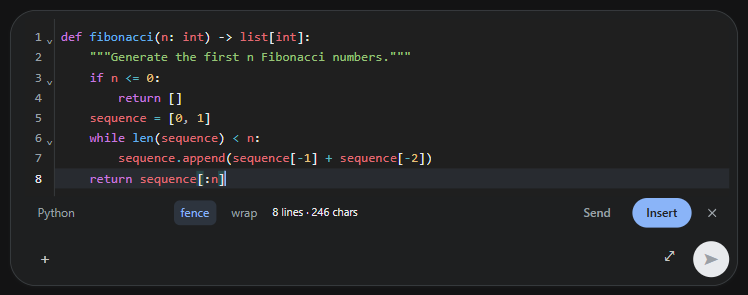
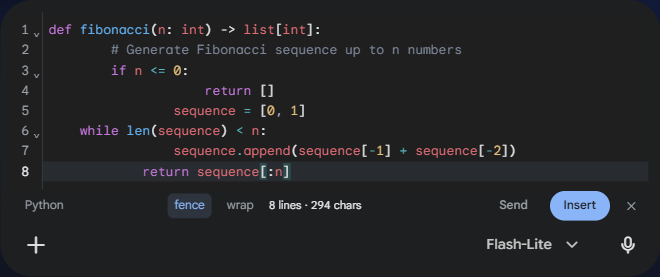
docs: align README with repo name, reorder installation after overview, and update with real Gemini dark mode screenshots

diff --git a/README.md b/README.md
@@ -1,13 +1,13 @@
-# Gemini Code Input
+# Code Input in AI Web Apps
 
 <p align="center">
-  <img src="release/gemini-code-input-1.0.0-store-icon-300.png" width="96" height="96" alt="Gemini Code Input logo" />
+  <img src="release/gemini-code-input-1.0.0-store-icon-300.png" width="96" height="96" alt="Code Input in AI Web Apps logo" />
 </p>
 
 <p align="center">
-  A Manifest V3 browser extension that docks a <strong>real code editor</strong> into Gemini's web prompt box.
+  A Manifest V3 browser extension that docks a <strong>real code editor</strong> directly into web prompt boxes.
   <br />
-  Syntax highlighting, proper language-aware indentation, line numbers, bracket matching, comment toggling, and smart fenced blocks.
+  Syntax highlighting, language-aware indentation, line numbers, bracket matching, comment toggling, and smart fenced blocks.
 </p>
 
 <p align="center">
@@ -18,64 +18,20 @@
   <img src="https://img.shields.io/badge/browsers-Chrome%20%7C%20Edge%20%7C%20Firefox%20%7C%20Brave%20%7C%20Arc-orange.svg" alt="Browser Support" />
 </p>
 
+> [!NOTE]
+> Currently supports **Google Gemini** ([gemini.google.com](https://gemini.google.com)). Support for additional AI web apps (ChatGPT, Claude, Copilot, DeepSeek, etc.) is in active development and coming soon!
+
 ---
 
 ## Overview
 
-Writing code in a standard prompt textarea often strips indentation, mashes bracket pairs, and lacks readability. **Gemini Code Input** embeds CodeMirror 6 directly into [gemini.google.com](https://gemini.google.com)'s prompt card. 
+Writing code in a standard prompt textarea often strips indentation, mashes bracket pairs, and lacks readability. **Code Input in AI Web Apps** embeds CodeMirror 6 directly into the prompt box.
 
-The editor docks cleanly inside Gemini's input grid, styled natively with Google Sans and Google Sans Mono to blend seamlessly into Gemini's light and dark themes.
-
-<p align="center">
-  <img src="docs/images/gemini-code-editor-docked.png" alt="Gemini Code Input Docked Editor in Dark Mode" width="800" />
-</p>
+The editor docks cleanly inside the input container, styled natively with Google Sans and Google Sans Mono to blend seamlessly into Gemini's dark theme.
 
 <p align="center">
-  <img src="docs/images/gemini-code-editor-light.png" alt="Gemini Code Input Docked Editor in Light Mode" width="800" />
+  <img src="docs/images/gemini-code-editor-docked.png" alt="Code Input Docked Editor on Google Gemini (Dark Mode)" width="800" />
 </p>
-
----
-
-## Key Features
-
-- **Docked In-Flow Experience**: Sits directly within Gemini's rounded input container. The code comes first and controls sit in a clean strip below, preserving Gemini's top-right expand/collapse button.
-- **Native Gemini Typography**: UI elements use **Google Sans** and code uses **Google Sans Mono** / Roboto Mono, perfectly matching Gemini's interface.
-- **Language-Aware Editing**: 21 supported languages with dedicated indentation units (4 spaces for Python/Java, 2 for JS/TS/HTML, real tabs for Go via `gofmt` standard).
-- **Automatic Language Detection**: Pasting code into an empty editor automatically detects the syntax and switches the language mode.
-- **Markdown Fenced Blocks**: Automatically formats submitted code with ` ```language ` block wrappers.
-- **Duplicate Insertion Guard**: Prevents accidental re-insertion if the code is already sitting in the prompt box.
-- **Ultra-Lean Footprint**: Loads on-demand. The initial content script is ~36 KiB; CodeMirror core and individual language packages load only when the editor opens.
-- **100% Client-Side & Private**: Zero external network requests, zero telemetry, no third-party tracking. All operations happen inside the browser.
-
----
-
-## Screenshots
-
-### 1. Dedicated Floating Launcher Chip
-A clean `<>` chip sits unobtrusively above the prompt box, following Gemini's dynamic layouts.
-
-<p align="center">
-  <img src="docs/images/gemini-launcher-chip.png" alt="Launcher Chip positioned above prompt box" width="760" />
-</p>
-
-### 2. Extension Options & Control Popup
-Customize default language, fence wrappers, line wrapping, launcher button position, and editor scroll height.
-
-<p align="center">
-  <img src="docs/images/extension-popup.png" alt="Extension Settings Menu Popup" width="360" />
-</p>
-
----
-
-## Browser Compatibility
-
-| Browser | Supported | Minimum Version | Engine | Extension Format |
-|:---|:---:|:---:|:---:|:---:|
-| **Google Chrome** | Yes | 114+ | Chromium | Manifest V3 |
-| **Microsoft Edge** | Yes | 114+ | Chromium | Manifest V3 |
-| **Mozilla Firefox** | Yes | 128+ | Gecko | Manifest V3 |
-| **Brave Browser** | Yes | 1.50+ | Chromium | Manifest V3 |
-| **Arc Browser** | Yes | Latest | Chromium | Manifest V3 |
 
 ---
 
@@ -86,7 +42,7 @@ Customize default language, fence wrappers, line wrapping, launcher button posit
 **No Node.js or build tools required.**
 
 1. **Download the pre-packaged zip**:
-   👉 **[Download gemini-code-input-1.0.0.zip](https://github.com/deakR/code-inputin-aiwebapps/releases/latest/download/gemini-code-input-1.0.0.zip)** (or get it from [Releases](https://github.com/deakR/code-inputin-aiwebapps/releases)).
+   👉 **[Download gemini-code-input-1.0.0.zip](https://github.com/deakR/code-inputin-aiwebapps/releases/latest/download/gemini-code-input-1.0.0.zip)** (or get it from the [Releases](https://github.com/deakR/code-inputin-aiwebapps/releases) page).
 2. **Unzip** `gemini-code-input-1.0.0.zip` into a folder on your computer.
 3. **Load unpacked into your browser**:
 
@@ -102,7 +58,7 @@ Customize default language, fence wrappers, line wrapping, launcher button posit
 #### Mozilla Firefox
 1. Navigate to `about:debugging#/runtime/this-firefox`.
 2. Click **Load Temporary Add-on…**.
-3. Select `manifest.json` inside the unzipped folder.
+3. Select `manifest.json` from the unzipped folder.
 
 4. Open [gemini.google.com](https://gemini.google.com) and start coding!
 
@@ -128,11 +84,55 @@ Then load the `dist/` directory using the **Load unpacked** steps above.
 
 ---
 
+## Key Features
+
+- **Docked In-Flow Experience**: Sits directly within the prompt container. The code comes first and controls sit in a clean strip below, preserving Gemini's top-right expand/collapse button.
+- **Native Typography**: UI elements use **Google Sans** and code uses **Google Sans Mono** / Roboto Mono, perfectly matching the host interface.
+- **Language-Aware Editing**: 21 supported languages with dedicated indentation units (4 spaces for Python/Java, 2 for JS/TS/HTML, real tabs for Go via `gofmt` standard).
+- **Automatic Language Detection**: Pasting code into an empty editor automatically detects the syntax and switches the language mode.
+- **Markdown Fenced Blocks**: Automatically formats submitted code with ` ```language ` block wrappers.
+- **Duplicate Insertion Guard**: Prevents accidental re-insertion if the code is already sitting in the prompt box.
+- **Configurable Shortcut & Position**: Customize the toggle hotkey (default <kbd>Ctrl</kbd> + <kbd>Shift</kbd> + <kbd>E</kbd>) and the launcher button position directly in the popup.
+- **Ultra-Lean Footprint**: Loads on-demand. The initial content script is ~36 KiB; CodeMirror core and individual language packages load only when the editor opens.
+- **100% Client-Side & Private**: Zero external network requests, zero telemetry, no third-party tracking. All operations happen locally inside your browser.
+
+---
+
+## Screenshots
+
+### 1. Dedicated Floating Launcher Chip
+A clean `<>` chip sits unobtrusively above the prompt box, following dynamic page layouts.
+
+<p align="center">
+  <img src="docs/images/gemini-launcher-chip.png" alt="Launcher Chip positioned above prompt box on Gemini" width="760" />
+</p>
+
+### 2. Extension Options & Control Popup
+Customize default language, show/hide the floating button, select button position, and configure the toggle hotkey.
+
+<p align="center">
+  <img src="docs/images/extension-popup.png" alt="Extension Settings Menu Popup" width="360" />
+</p>
+
+---
+
+## Browser Compatibility
+
+| Browser | Supported | Minimum Version | Engine | Extension Format |
+|:---|:---:|:---:|:---:|:---:|
+| **Google Chrome** | Yes | 114+ | Chromium | Manifest V3 |
+| **Microsoft Edge** | Yes | 114+ | Chromium | Manifest V3 |
+| **Mozilla Firefox** | Yes | 128+ | Gecko | Manifest V3 |
+| **Brave Browser** | Yes | 1.50+ | Chromium | Manifest V3 |
+| **Arc Browser** | Yes | Latest | Chromium | Manifest V3 |
+
+---
+
 ## Keyboard Shortcuts
 
 | Shortcut | Action |
 |:---|:---|
-| <kbd>Ctrl</kbd> + <kbd>Shift</kbd> + <kbd>E</kbd> (or <kbd>⌘</kbd> + <kbd>Shift</kbd> + <kbd>E</kbd>) | Toggle the Code Editor |
+| <kbd>Ctrl</kbd> + <kbd>Shift</kbd> + <kbd>E</kbd> (or <kbd>⌘</kbd> + <kbd>Shift</kbd> + <kbd>E</kbd>) | Toggle the Code Editor (Configurable in settings) |
 | <kbd>Ctrl</kbd> + <kbd>Enter</kbd> (or <kbd>⌘</kbd> + <kbd>Enter</kbd>) | Insert code into prompt box |
 | <kbd>Tab</kbd> / <kbd>Shift</kbd> + <kbd>Tab</kbd> | Indent / Dedent code selection |
 | <kbd>Ctrl</kbd> + <kbd>/</kbd> | Toggle line comment |
@@ -157,7 +157,7 @@ Then load the `dist/` directory using the **Load unpacked** steps above.
 The extension includes full integration tests driven by [Playwright](https://playwright.dev/):
 
 ```bash
-# Run 27 automated integration tests against Gemini mock fixtures
+# Run 28 automated integration tests against Gemini mock fixtures
 npm test
 ```
 
